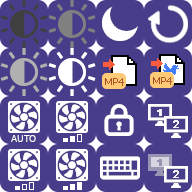
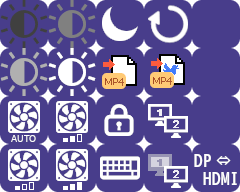
Add "SetDisplayInput" internal application

diff --git a/Yata/Components/Application/SetDisplayInput.cs b/Yata/Components/Application/SetDisplayInput.cs
@@ -1,0 +1,200 @@
+using System;
+using System.Collections.Generic;
+using System.Linq;
+using System.Runtime.InteropServices;
+using System.Security.Cryptography;
+using System.Text;
+using System.Text.RegularExpressions;
+using System.Threading;
+using System.Threading.Tasks;
+
+namespace Yata.Components.Application
+{
+
+    /// <summary>
+    /// 物理ディスプレイの入力ポート(DP, HDMI)を切り替える
+    /// </summary>
+    internal class SetDisplayInput : IInternalApplication
+    {
+        const int ToggleInput1 = SOURCE_DP1;
+        const int ToggleInput2 = SOURCE_HDMI1;
+
+        /// <summary>
+        /// 実施
+        /// </summary>
+        /// <param name="karasu"></param>
+        /// <param name="option">ディスプレイID(0～)=入力ソース(TOGGLE/DP1/HDMI1)</param>
+        /// <remarks>
+        /// optionは左辺を省略可("DP1"のみ指定可)。その場合はID=0とする。
+        /// DDC(DxVA2)上の管理IDなので不用意に変わるのかもしれないので本来はモデルIDなりなんなりを指定できたほうがよさそう。
+        /// </remarks>
+        public void Execute(Karasu karasu, string option)
+        {
+
+            var reg = new Regex(@"((?<ID>\d+)=)?(?<INPUT>[^\s]+)");
+            var match = reg.Match(option);
+            if (match.Success)
+            {
+                var dID = match.Groups["ID"].Value;
+                var dInput = match.Groups["INPUT"].Value;
+                SelectSouce(dID, dInput);
+            }
+        }
+
+        /// <summary>
+        /// パラメータからソースIDを選択
+        /// </summary>
+        /// <param name="dInput"></param>
+        /// <param name="id"></param>
+        /// <returns></returns>
+        private void SelectSouce(string id, string dInput)
+        {
+            var physicalMonitors = new List<PhysicalMonitor>();
+            try
+            {
+                //物理モニタ列挙
+                EnumDisplayMonitors(IntPtr.Zero, IntPtr.Zero,
+                    (IntPtr hMonitor, IntPtr hdcMonitor, IntPtr lprcMonitor, IntPtr dwData) =>
+                    {
+                        if (!GetNumberOfPhysicalMonitorsFromHMONITOR(hMonitor, out uint arrSize)) return true;
+                        var hPhysicalMonitors = new PhysicalMonitor[arrSize];
+                        if (!GetPhysicalMonitorsFromHMONITOR(hMonitor, arrSize, hPhysicalMonitors)) return true;
+                        physicalMonitors.AddRange(hPhysicalMonitors); return true;
+                    }, IntPtr.Zero);
+
+                //モニタ操作
+                var monitor = Select(physicalMonitors, id);
+                if (monitor != null)
+                {
+                    var dinputNo = SOURCE_DP1;  //とりあえずDP1
+                    switch (dInput.ToUpper())
+                    {
+                        case "TOGGLE":  dinputNo = Toggle(monitor.Value.GetInputSource()); break;
+                        case "DP1":     dinputNo = SOURCE_DP1; break;
+                        case "DP2":     dinputNo = SOURCE_DP2; break;
+                        case "HDMI1":   dinputNo = SOURCE_HDMI1; break;
+                        case "HDMI2":   dinputNo = SOURCE_HDMI2; break;
+                        default:
+                            dinputNo = int.Parse(dInput);
+                            break;
+                    }
+                    monitor.Value.SetInputSource(dinputNo);
+                }
+            }
+            finally
+            {
+                //物理モニタ操作の終了
+                DestroyPhysicalMonitors((uint)physicalMonitors.Count, physicalMonitors.ToArray());
+            }
+        }
+
+        /// <summary>
+        /// 物理モニターの選択
+        /// </summary>
+        /// <param name="physicalMonitors">物理モニターリスト</param>
+        /// <param name="id">選択するもの(今はリストのインデックスのみ)</param>
+        /// <returns>選択されたモニタまたはnull</returns>
+        PhysicalMonitor? Select(List<PhysicalMonitor> physicalMonitors, string id)
+        {
+            var v = string.IsNullOrEmpty(id) ? 0 : int.Parse(id);
+            if ((v>=0)&&(v< physicalMonitors.Count))
+            {
+                return physicalMonitors[v];
+            }
+            return null;
+        }
+
+        /// <summary>
+        /// 今のinputをもとにToggleInput1か2のいずれか(currentとは異なる値)を返す
+        /// </summary>
+        /// <param name="current"></param>
+        /// <returns></returns>
+        int Toggle(int current)
+        {
+            return current == ToggleInput1 ? ToggleInput2 : ToggleInput1;
+        }
+
+        #region DDC/CI
+
+        //from VESA MCCS
+        /// <summary>
+        /// DisplayPort 1
+        /// </summary>
+        private const int SOURCE_DP1 = 15;
+        /// <summary>
+        /// DisplayPort 2
+        /// </summary>
+        private const int SOURCE_DP2 = 16;
+        /// <summary>
+        /// HDMI 1
+        /// </summary>
+        private const int SOURCE_HDMI1 = 17;
+        /// <summary>
+        /// HDMI 2
+        /// </summary>
+        private const int SOURCE_HDMI2 = 18;
+
+        private delegate bool MonitorEnumDelegate(IntPtr hMonitor, IntPtr hdcMonitor, IntPtr lprcMonitor, IntPtr dwData);
+
+        [DllImport("user32.dll")]
+        private static extern bool EnumDisplayMonitors(IntPtr hdc, IntPtr lprcClip, MonitorEnumDelegate lpfnEnum, IntPtr dwData);
+
+        [DllImport("Dxva2.dll")]
+        private static extern bool GetNumberOfPhysicalMonitorsFromHMONITOR(IntPtr hMonitor, out uint pdwNumberOfPhysicalMonitors);
+
+        [DllImport("Dxva2.dll")]
+        private static extern bool GetPhysicalMonitorsFromHMONITOR(IntPtr hMonitor, uint dwPhysicalMonitorArraySize, [Out] PhysicalMonitor[] pPhysicalMonitorArray);
+
+        [DllImport("Dxva2.dll")]
+        private static extern bool DestroyPhysicalMonitors(uint dwPhysicalMonitorArraySize, PhysicalMonitor[] pPhysicalMonitorArray);
+
+        /// <summary>
+        /// (LP)PHYSICAL_MONITOR
+        /// </summary>
+        [StructLayout(LayoutKind.Sequential, CharSet = CharSet.Auto)]
+        public struct PhysicalMonitor
+        {
+            public IntPtr hPhysicalMonitor;
+
+            [MarshalAs(UnmanagedType.ByValTStr, SizeConst = 128)]
+            public string szPhysicalMonitorDescription;
+
+            [DllImport("Dxva2.dll")]
+            private static extern bool GetVCPFeatureAndVCPFeatureReply(IntPtr hMonitor, byte bVCPCode, IntPtr pvct, out uint pdwCurrentValue, out uint pdwMaximumValue);
+
+            [DllImport("Dxva2.dll")]
+            private static extern bool SetVCPFeature(IntPtr hMonitor, byte bVCPCode, uint dwNewValue);
+
+            /// <summary>
+            /// 入力ソース
+            /// </summary>
+            /// <seealso cref="https://milek7.pl/ddcbacklight/mccs.pdf"/>
+            const byte VCP_INPUT_SOURCE_SELECT = 0x60;
+
+            /// <summary>
+            /// get input source of monitor
+            /// </summary>
+            /// <returns></returns>
+            public int GetInputSource()
+            {
+                if (GetVCPFeatureAndVCPFeatureReply(hPhysicalMonitor, VCP_INPUT_SOURCE_SELECT, IntPtr.Zero, out uint current, out uint max))
+                {
+                    return (int)(current & 0x00FF);
+                }
+                return -1;
+            }
+
+            /// <summary>
+            /// set input source of monitor
+            /// </summary>
+            /// <param name="source"></param>
+            /// <returns></returns>
+            public bool SetInputSource(int source)
+            {
+                return SetVCPFeature(hPhysicalMonitor, VCP_INPUT_SOURCE_SELECT, (uint)source);
+            }
+        }
+
+        #endregion
+    }
+}

diff --git a/Yata/Components/Application/ApplicationProvider.cs b/Yata/Components/Application/ApplicationProvider.cs
@@ -21,6 +21,8 @@ namespace Yata.Components.Application
                     return new Application.Suspender();
                 case "DashboardBrightnessChanger":
                     return new Application.DashboardBrightnessChanger(container);
+                case "SetDisplayInput":
+                    return new Application.SetDisplayInput();
                 case "SetDisplayToporogy":
                     return new Application.SetDisplayToporogy();
                 case "SendKeyStroke":

diff --git a/Yata/Readme.md b/Yata/Readme.md
@@ -69,6 +69,12 @@ tsv各カラムは以下の通り。
 パネルの明るさを変更する。  
 パラメータに0～1の値を設定する。256諧調設定可能。
 
++ internal::SetDisplayInput  
+ディスプレイの入力信号を選択する。  
+パラメータに"入力信号名"または"ディスプレイ番号=入力信号名"を指定する。  
+ディスプレイ番号(0～)を指定しないとき、"0"が指定されているものとして扱う。  
+入力信号名は"TOGGLE", "DP1"(display port 1)[default],"DP2"(display port 2), "HDMI1", "HDMI2"のいずれかを指定可能。  
+TOGGLEを指定した場合、現在のソースが"DP1"であれば"HDMI1"を、そうでなければ"DP1"を設定する。
 
 +  internal::SetDisplayTopology  
 ディスプレイ構成のトポロジー(メイン画面のみ、サブ画面のみ、拡張、複製）を変更する。  
